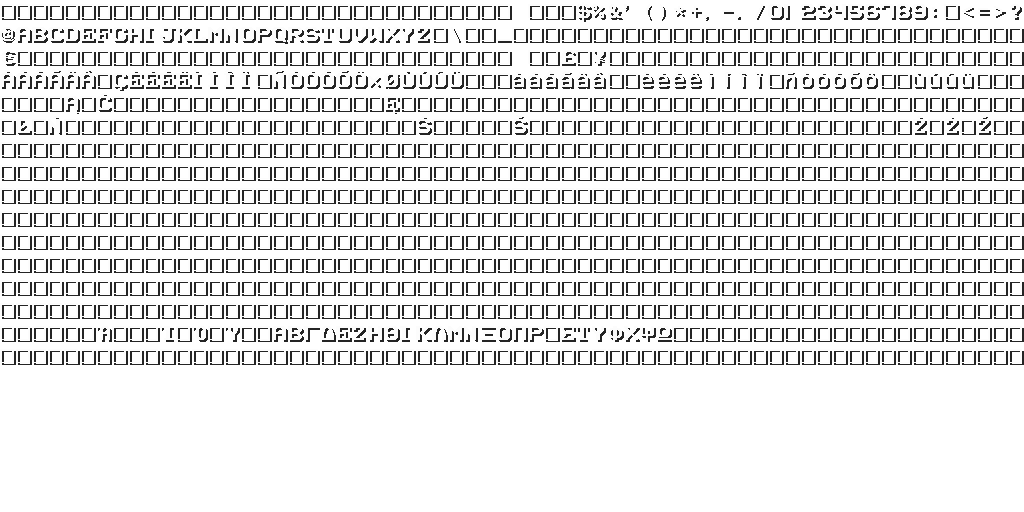
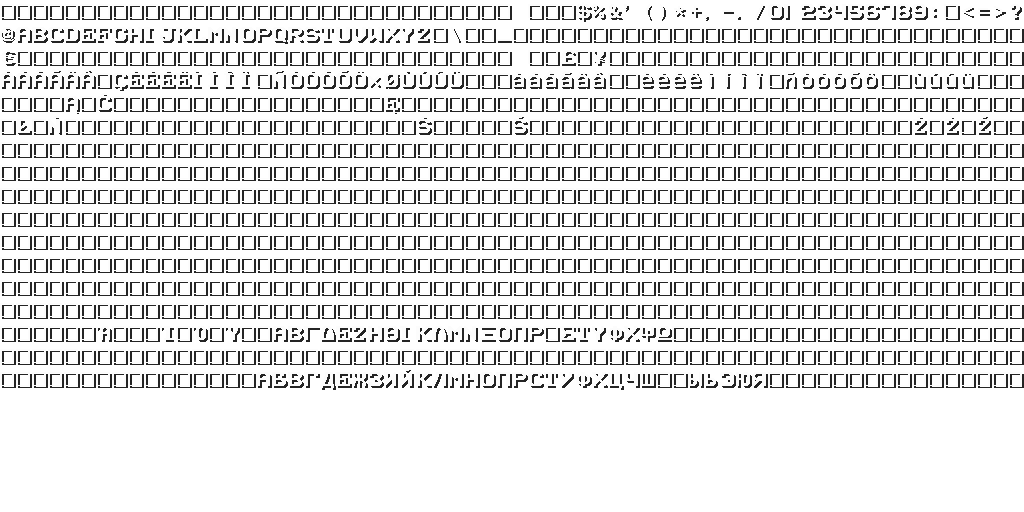
Russian localisation

Changed region(s): [[0.0, 0.7188, 1.0, 0.7812]]

diff --git a/android/ysoccer_demo/app/src/main/java/com/ysoccer/android/ysdemo/Assets.java b/android/ysoccer_demo/app/src/main/java/com/ysoccer/android/ysdemo/Assets.java
@@ -40,8 +40,8 @@ public class Assets {
     public static CrowdRenderer crowdRenderer;
 
     public static Texture ucode14;
-    public static int[] ucode14w = new int[1024];
-    public static int[] ucode10w = new int[1024];
+    public static int[] ucode14w = new int[1088];
+    public static int[] ucode10w = new int[1088];
     public static Texture[][] player = new Texture[2][10];
     public static List<Texture> hairs = new ArrayList<Texture>();
     public static Texture[] playerShadows = new Texture[4];
@@ -363,7 +363,7 @@ public class Assets {
             int s = 0;
 
             // row
-            for (int r = 0; r < 16; r++) {
+            for (int r = 0; r < 17; r++) {
 
                 // block
                 for (int b = 0; b < 8; b++) {
